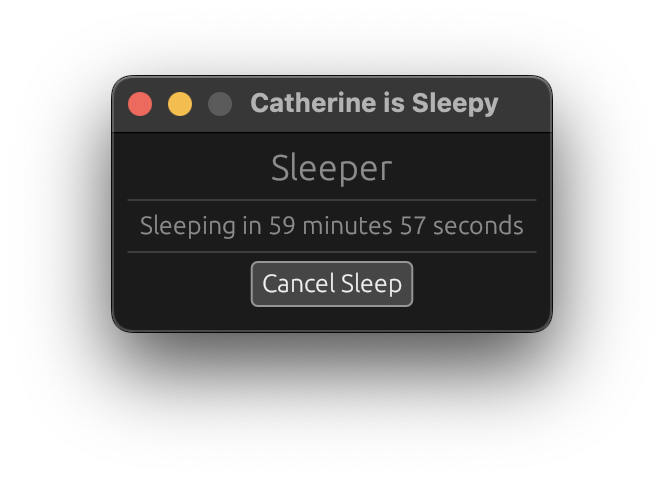
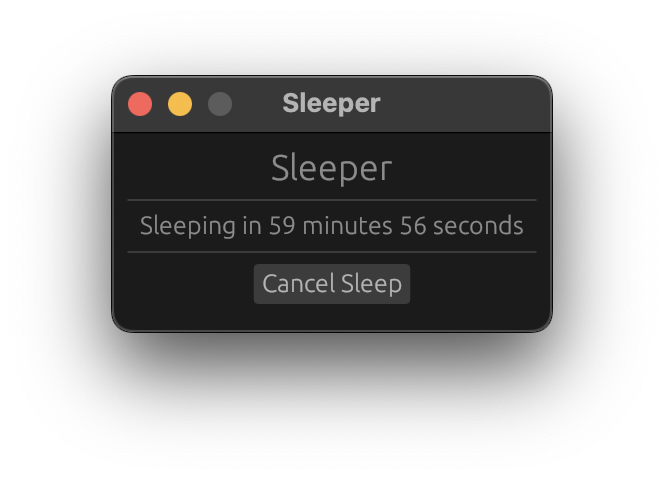
Update window title and README images

Changed region(s): [[0.3614, 0.5312, 0.6325, 0.6562], [0.3614, 0.1875, 0.753, 0.25], [0.6024, 0.4375, 0.6627, 0.5]]

diff --git a/src/main.rs b/src/main.rs
@@ -9,7 +9,7 @@ fn main() {
         ..Default::default()
     };
     eframe::run_native(
-        "Catherine is Sleepy",
+        "Sleeper",
         options,
         Box::new(|cc| Box::new(MyEguiApp::new(cc))),
     );
